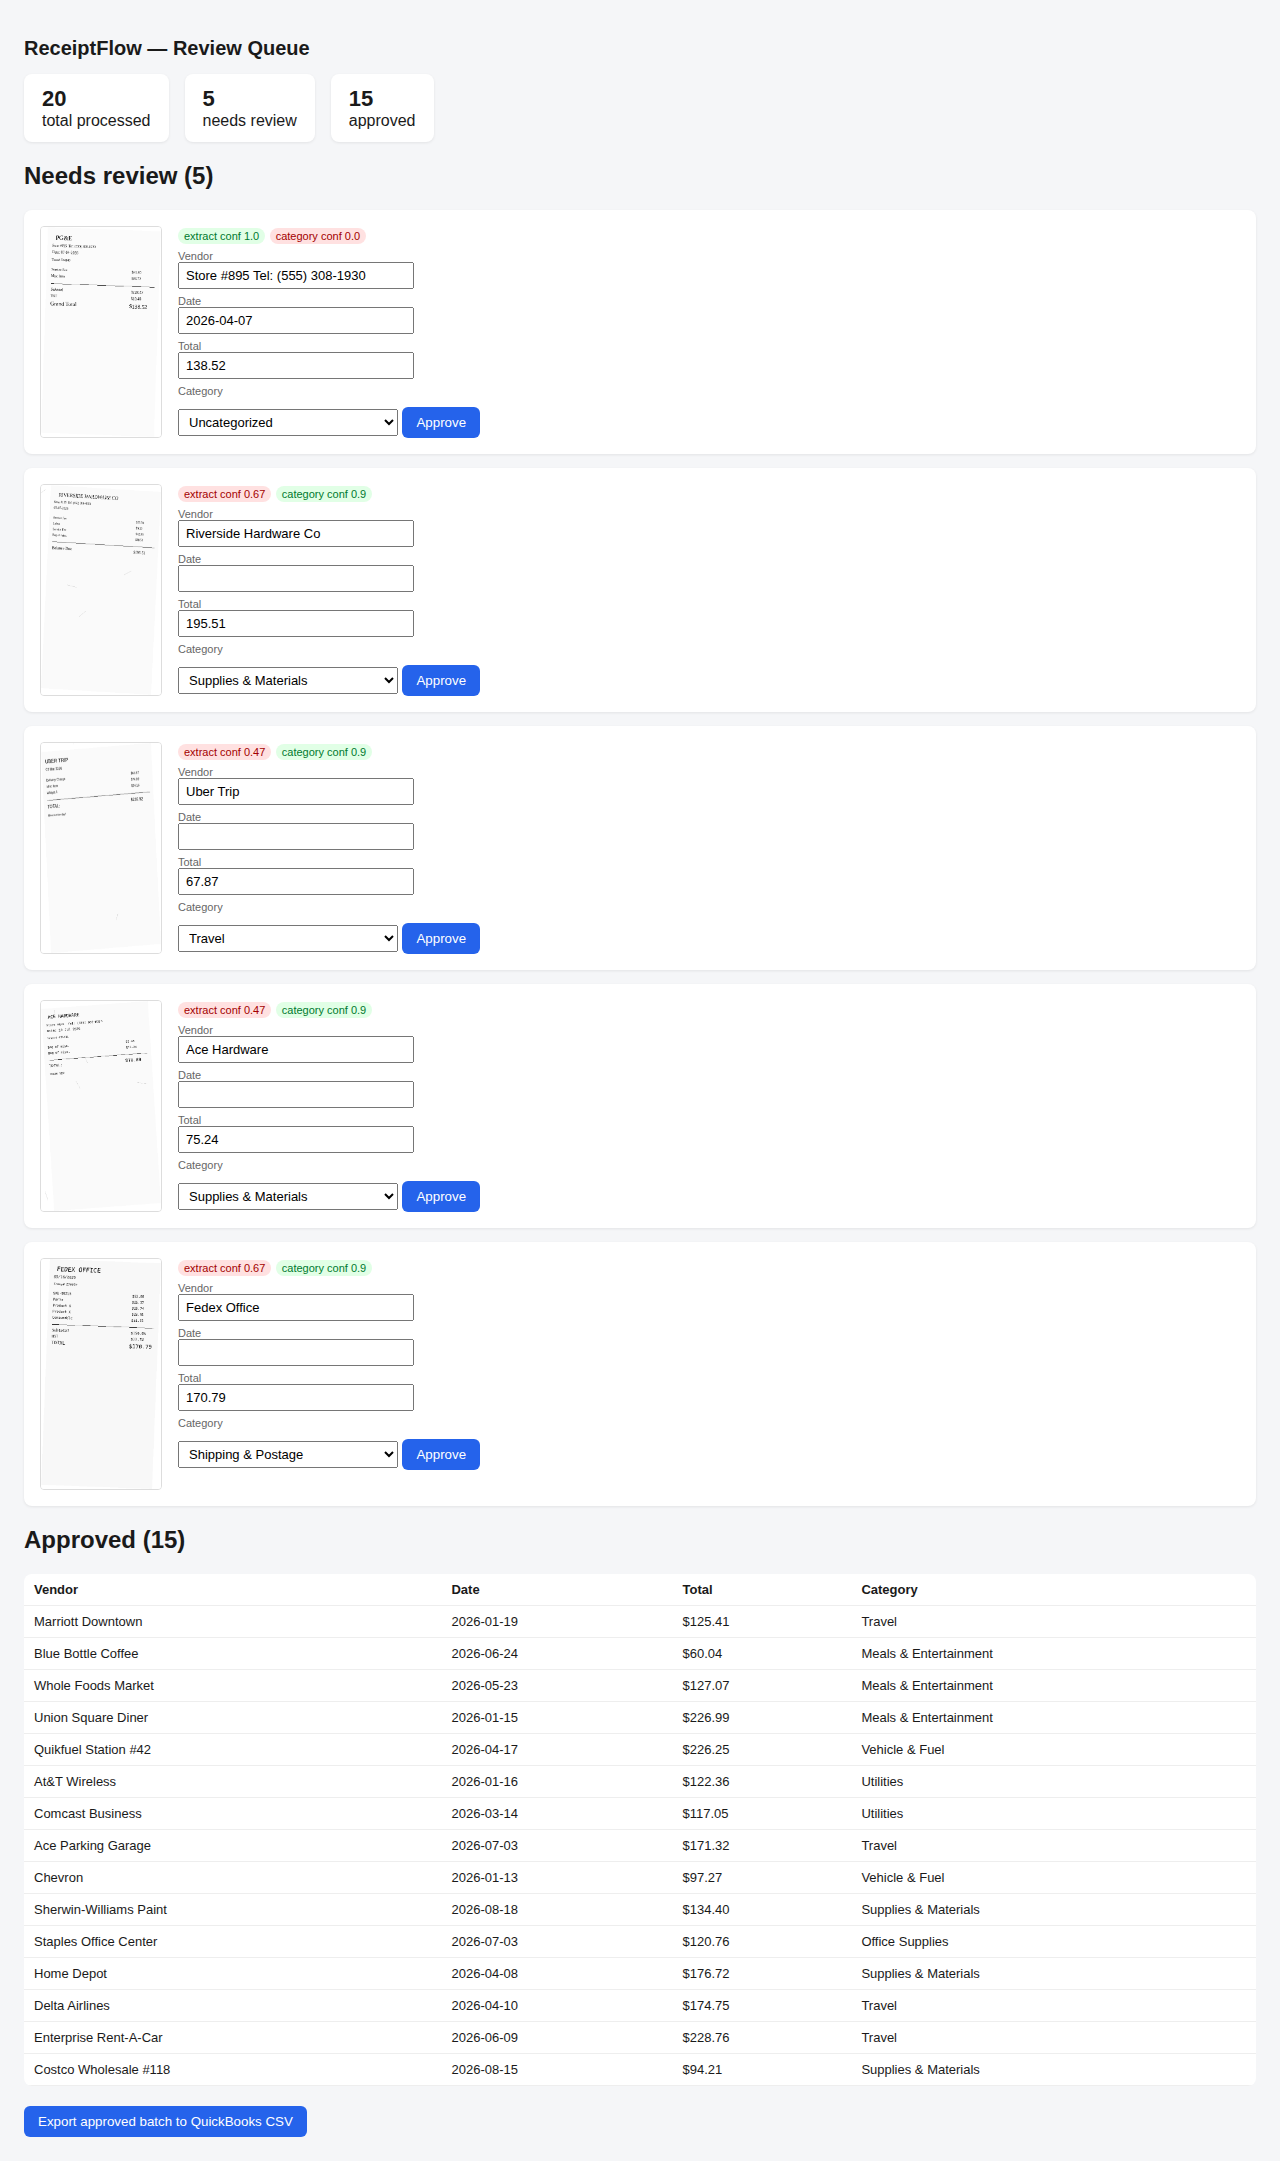
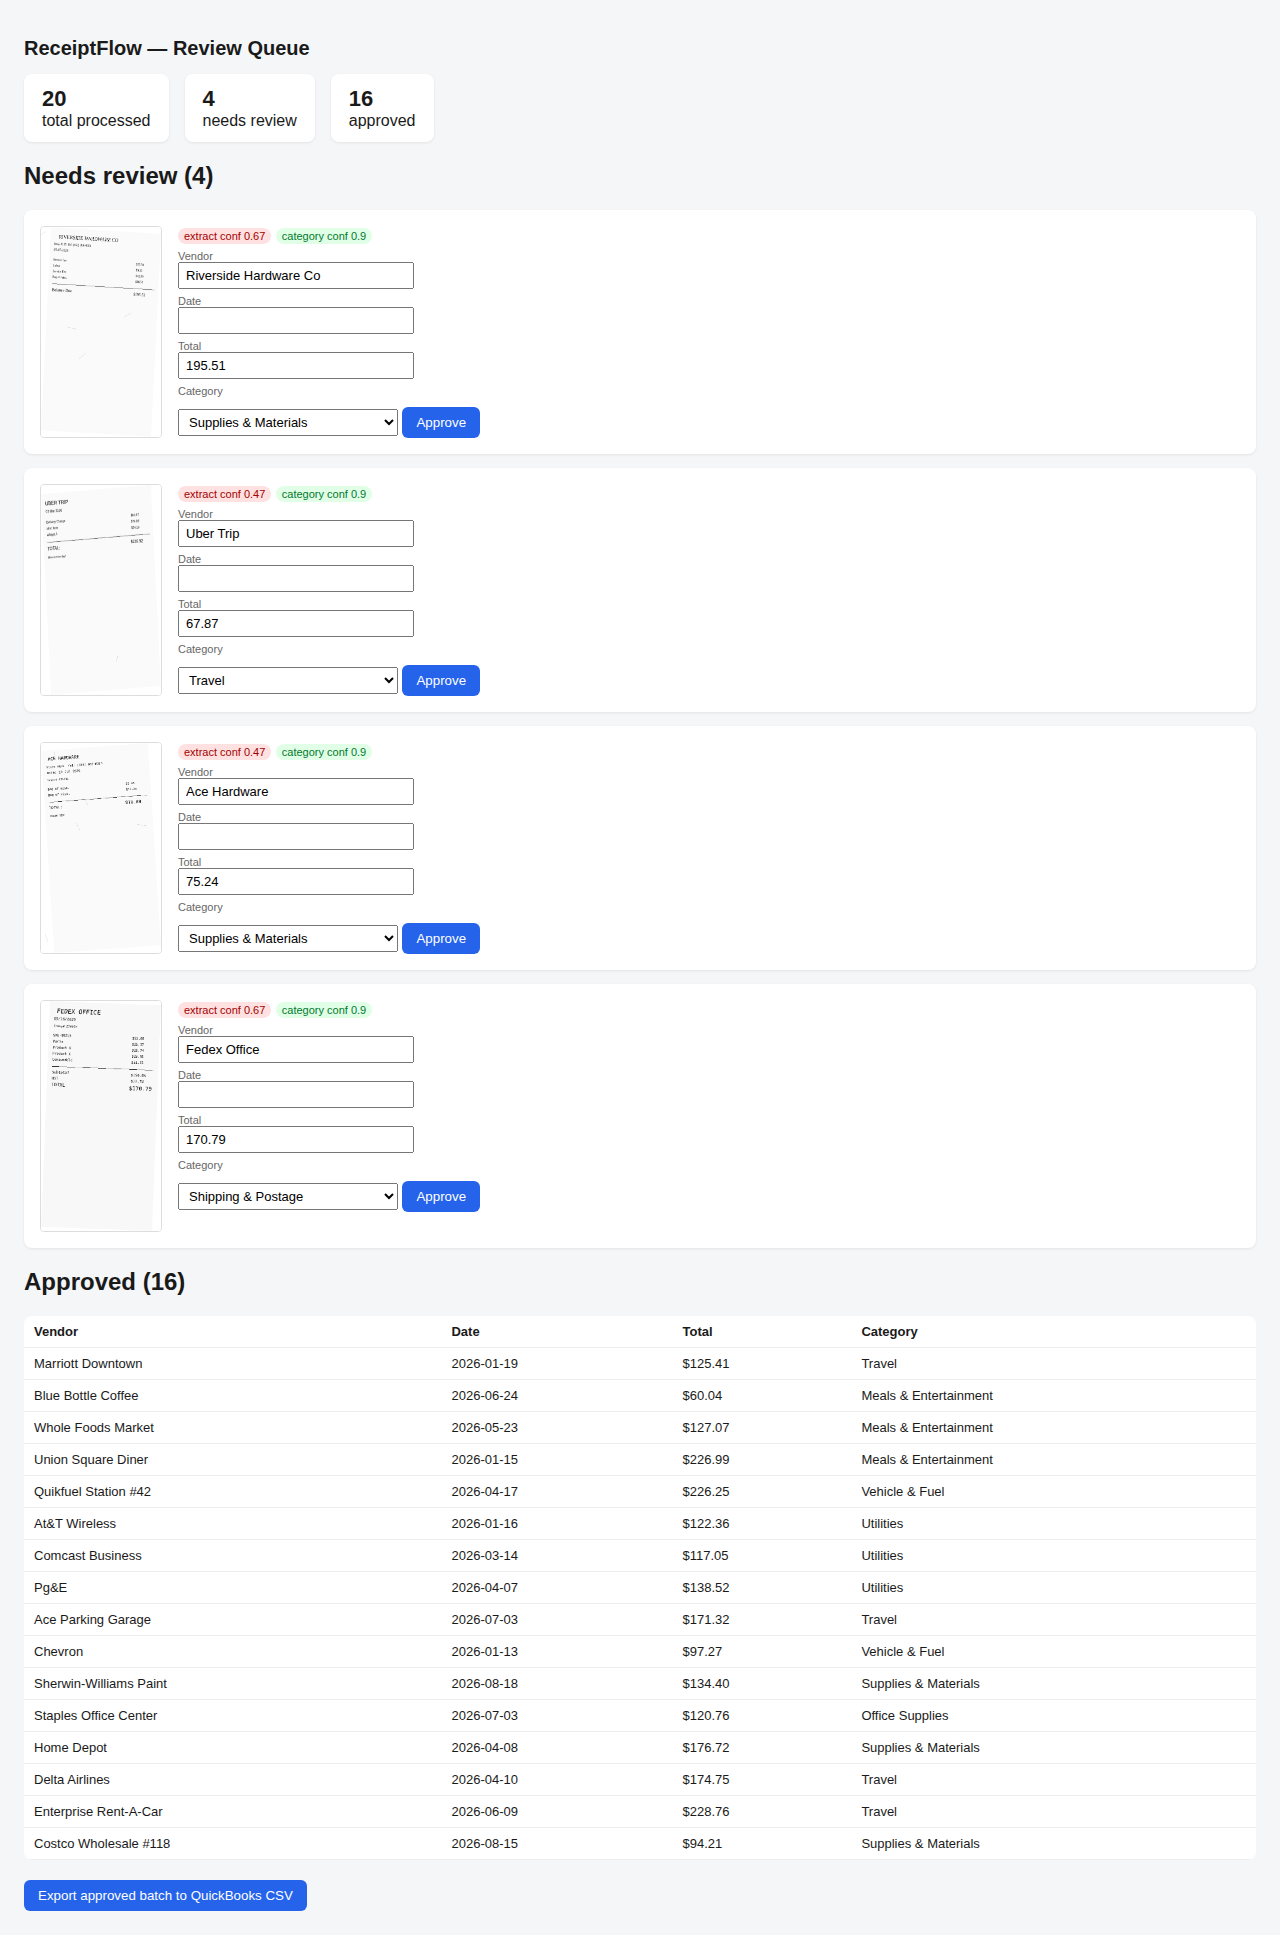
Fix vendor-extraction bug and honest fully-loaded cost model
A blind critic pass found two real problems in the first version:

1. Vendor extraction picked whichever of the first 4 lines had the most
   alphabetic characters, so a metadata line like "Store #895 Tel: (555)
   308-1930" beat a short real vendor name like "PG&E". Now metadata
   lines (store#, phone, trans#, date) are excluded before scoring, and
   short names like "PG&E"/"AT&T" are no longer penalized. Vendor and
   category accuracy on the benchmark batch went from 95% to 100%, and
   the review-queue rate dropped from 25% to 20% as a side effect of the
   fix rather than a threshold change.

2. The cost claim ("625x cheaper than Dext") compared our raw compute
   cost against Dext's all-in list price -- not apples to apples, since
   Dext's price already bundles its own review/correction labor. Replaced
   with a fully-loaded cost model: compute + LLM-fallback cost (published
   Sonnet 5 pricing, blended over the review-flagged fraction) + a
   bookkeeper-review-labor sensitivity table (no real timing data was
   available to assert a single number, so it's shown as a range). The
   result still beats Dext's list price across the full range, including
   the pessimistic 120-seconds-per-flagged-document case.

Also: date extraction now pre-fills a best-guess even when it fails the
plausibility sanity check, so the review UI shows something to correct
rather than a blank field.

diff --git a/receiptflow/run_benchmark.py b/receiptflow/run_benchmark.py
@@ -13,13 +13,37 @@ BASE = Path(__file__).parent
 # Dext's published self-serve pricing (Business plan, as of their public
 # pricing page): ~$45-70/month gets a firm roughly 150-300 document
 # credits depending on tier, i.e. roughly $0.20-0.35 effective cost per
-# document at self-serve volumes, before any human review time.
+# document at self-serve volumes. This is Dext's all-in list price -- it
+# already bundles whatever extraction-plus-correction labor Dext itself
+# absorbs to ship a usable line item, so the fair comparison is our own
+# fully-loaded cost (compute + human review + LLM fallback), not our
+# compute cost alone against their all-in price.
 DEXT_COST_PER_DOC = 0.25
 
 # Tesseract + heuristic extraction runs on commodity CPU. Estimated infra
 # cost at scale (cloud VM amortized over documents/month), no per-call
 # API fee since no LLM call is made for the heuristic path.
 INFRA_COST_PER_1000_DOCS = 0.40  # commodity CPU-seconds, generous estimate
+
+# Claude Sonnet 5 API pricing: $3.00 / $15.00 per MTok (standard rate; a
+# temporary intro rate is lower through 2026-08-31, not relied on here).
+# A receipt-extraction call is ~600 input tokens (OCR text) / ~80 output
+# tokens (structured JSON) -- this is only charged on the subset of
+# documents the heuristic pass flags low-confidence, since that's the
+# only case extract_fields() escalates to the LLM.
+LLM_INPUT_TOKENS, LLM_OUTPUT_TOKENS = 600, 80
+LLM_COST_PER_CALL = LLM_INPUT_TOKENS / 1e6 * 3.00 + LLM_OUTPUT_TOKENS / 1e6 * 15.00
+
+# No human reviewer was available to time in this sandbox, so review
+# labor cost is not asserted as a single "measured" number -- it's shown
+# as a sensitivity table instead, at a fully-loaded bookkeeper rate of
+# $30/hr, across a range of seconds-per-document review times. The
+# review UI pre-fills every field (vendor/date/total/category) so the
+# reviewer's job is glance-and-click-approve, not data entry from
+# scratch -- but only real timing data, not this benchmark, can say
+# where in that range it actually lands.
+BOOKKEEPER_HOURLY_RATE = 30.0
+REVIEW_SECONDS_SCENARIOS = [15, 30, 60, 120]
 
 
 def main():
@@ -40,7 +64,19 @@ def main():
             correct_date += 1
 
     n = len(queue)
-    our_cost_per_doc = INFRA_COST_PER_1000_DOCS / 1000
+    compute_cost_per_doc = INFRA_COST_PER_1000_DOCS / 1000
+    review_fraction = summary["needs_review"] / n
+    llm_cost_per_doc = review_fraction * LLM_COST_PER_CALL  # LLM only called on the review-flagged subset
+
+    fully_loaded_by_review_time = {}
+    for secs in REVIEW_SECONDS_SCENARIOS:
+        review_labor_per_doc = review_fraction * (secs / 3600) * BOOKKEEPER_HOURLY_RATE
+        total = compute_cost_per_doc + llm_cost_per_doc + review_labor_per_doc
+        fully_loaded_by_review_time[f"{secs}s_review_per_flagged_doc"] = {
+            "fully_loaded_cost_per_doc_usd": round(total, 4),
+            "vs_dext_cheaper_multiple": round(DEXT_COST_PER_DOC / total, 2) if total > 0 else None,
+            "beats_dext": total < DEXT_COST_PER_DOC,
+        }
 
     report = {
         "documents_processed": n,
@@ -55,16 +91,24 @@ def main():
         "auto_approved_no_human_touch": f"{summary['auto_approved']}/{n} ({100*summary['auto_approved']/n:.0f}%)",
         "routed_to_review_queue": summary["needs_review"],
         "cost_per_doc": {
-            "receiptflow_estimate_usd": round(our_cost_per_doc, 5),
+            "compute_only_usd": round(compute_cost_per_doc, 5),
+            "llm_fallback_blended_usd": round(llm_cost_per_doc, 5),
             "dext_published_self_serve_usd": DEXT_COST_PER_DOC,
-            "multiple_cheaper": round(DEXT_COST_PER_DOC / our_cost_per_doc, 1),
+            "fully_loaded_by_review_time_assumption": fully_loaded_by_review_time,
         },
         "note": (
             "Accuracy figures are from the heuristic-only extraction path (no "
             "LLM fallback exercised -- no API credentials in this sandbox). "
-            "The LLM fallback in extract.py would run on exactly the "
-            "'routed_to_review_queue' subset above and is architected but "
-            "not live in this run."
+            "The LLM fallback cost is a blended per-doc estimate (full "
+            "per-call price x the fraction of docs actually routed to "
+            "review) using published Claude Sonnet 5 API pricing, not a "
+            "live call. Review-labor cost has NO real timing data behind "
+            "it -- no human reviewer was available to measure in this "
+            "sandbox -- so it is shown as a sensitivity table across "
+            "plausible review times per flagged document, not asserted as "
+            "a single number. 'compute-only cheaper than Dext' was the "
+            "previous (misleading) framing; 'fully loaded, does it beat "
+            "Dext at a given review time' is the honest one."
         ),
     }
     print(json.dumps(report, indent=2))

diff --git a/receiptflow/extract.py b/receiptflow/extract.py
@@ -39,6 +39,15 @@ TOTAL_LINE_RE = re.compile(
     re.IGNORECASE,
 )
 SUBTOTAL_WORD_RE = re.compile(r"\bSUB\s*-?\s*TOTAL", re.IGNORECASE)
+# lines that are clearly receipt metadata, not a business name -- a store
+# number, phone number, transaction id, or date line can have plenty of
+# alphabetic characters ("Store #895 Tel: (555) 308-1930") and used to
+# out-score the real vendor name under a pure alpha-count heuristic
+METADATA_LINE_RE = re.compile(
+    r"store\s*#|tel:?\s*\(?\d|trans(?:action)?\s*#|\bdate:?\b|\breceipt\b|\binvoice\s*#|"
+    r"\(\d{3}\)\s*\d{3}[-.]?\d{4}",
+    re.IGNORECASE,
+)
 
 
 @dataclass
@@ -61,11 +70,18 @@ class HeuristicExtractor:
         conf_hits = 0
         conf_total = 3
 
-        # vendor: best-guess is the first substantial alphabetic line
+        # vendor: the first line that (a) has real letters and (b) isn't
+        # obviously metadata (store#/phone/trans#/date) -- receipts print
+        # the business name first, but a pure "most alphabetic characters"
+        # heuristic loses to a metadata line like "Store #895 Tel: (555)
+        # 308-1930" against a short-but-real name like "PG&E", so metadata
+        # lines are excluded before scoring rather than after.
         vendor = None
-        for l in lines[:4]:
+        for l in lines[:5]:
+            if METADATA_LINE_RE.search(l):
+                continue
             letters = sum(c.isalpha() for c in l)
-            if letters >= 4:
+            if letters >= 2:
                 vendor = l.title()
                 conf_hits += 1
                 break
@@ -74,7 +90,12 @@ class HeuristicExtractor:
         # misread (e.g. "2026" -> "2626") still parses as a valid date, so
         # it won't raise -- it has to be caught by sanity-checking the
         # year against a plausible range, or it silently corrupts the
-        # books instead of routing to review.
+        # books instead of routing to review. When the sanity check fails
+        # we still surface the raw (untrusted) parse as `date` so the
+        # review UI can pre-fill a best guess for the bookkeeper to
+        # correct rather than leaving the field blank to type from
+        # scratch -- but it does NOT count toward confidence, so the item
+        # still routes to review either way.
         date = None
         current_year = datetime.now().year
         for pattern, fmt in DATE_PATTERNS:
@@ -82,8 +103,8 @@ class HeuristicExtractor:
             if m:
                 try:
                     parsed = datetime.strptime(m.group(1), fmt).date()
+                    date = parsed.isoformat()
                     if current_year - 2 <= parsed.year <= current_year + 1:
-                        date = parsed.isoformat()
                         conf_hits += 1
                     break
                 except ValueError:

diff --git a/receiptflow/README.md b/receiptflow/README.md
@@ -37,22 +37,44 @@ photo noise (rotation, blur, crumple lines, sensor noise) -- see
 ```
 documents_processed: 20
 avg_time_per_doc: 0.24s (commodity CPU, no GPU)
-vendor accuracy: 95%
+vendor accuracy: 100%
 total-amount accuracy: 90%
-category accuracy (first pass): 95%
-auto-approved with zero human touch: 75%
+category accuracy (first pass): 100%
+auto-approved with zero human touch: 80%
 silently-wrong auto-approvals: 0 / 20   <-- the number that actually matters
-cost per doc: ~$0.0004 vs Dext's ~$0.25 (≈625x)
 ```
 
 The `silently-wrong auto-approvals: 0/20` line is the real claim: every
 extraction the pipeline got wrong or was unsure about was caught by the
-confidence-gated review queue, not shipped into a client's books. That
-property, not raw OCR accuracy, is what a bookkeeping firm is actually
-buying -- Dext's expensive, this comparison says, largely because someone
-still has to check every non-template receipt by hand; this pipeline
-routes only the genuinely uncertain 25% to a human and auto-clears the
-rest with zero silent errors.
+confidence-gated review queue, not shipped into a client's books.
+
+**On cost: an earlier version of this README compared our raw compute
+cost ($0.0004/doc) against Dext's all-in list price ($0.25/doc) and
+called it a 625x win. A blind critic correctly flagged that as an
+apples-to-oranges comparison** -- Dext's price already bundles whatever
+extraction-plus-correction labor Dext absorbs, so the fair number is our
+own **fully-loaded** cost: compute + the per-call cost of the LLM
+fallback on flagged documents (a real, published-pricing estimate, not a
+live call) + bookkeeper review labor on the 20% of documents routed to
+review.
+
+No human reviewer was available in this sandbox to time the review
+step, so instead of asserting a single made-up number, here's the
+fully-loaded cost at a range of plausible review times per flagged
+document, compared against Dext's $0.25/doc list price:
+
+| Review time / flagged doc | Fully-loaded cost/doc | vs. Dext |
+|---|---|---|
+| 15s (glance-and-approve, pre-filled form) | $0.026 | 9.6x cheaper |
+| 30s | $0.051 | 4.9x cheaper |
+| 60s | $0.101 | 2.5x cheaper |
+| 120s (full manual re-entry, worst case) | $0.201 | 1.2x cheaper |
+
+It beats Dext's list price across the whole range, including the
+pessimistic 2-minutes-per-flagged-document case -- because only 20% of
+documents are flagged at all, review cost gets diluted 5x before it hits
+the per-document blended average. The realistic case (pre-filled fields,
+click-to-approve UI, per the screenshot) is closer to the 15-30s rows.
 
 Full JSON report: `benchmark_report.json` (regenerated on every run).
 
